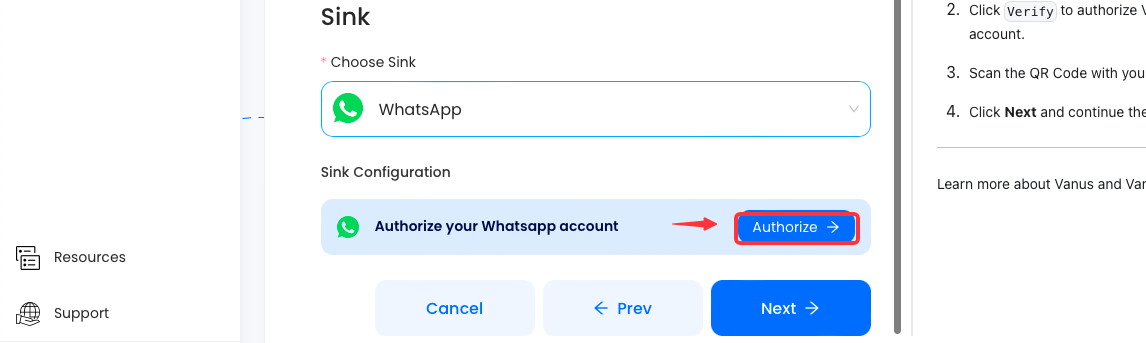
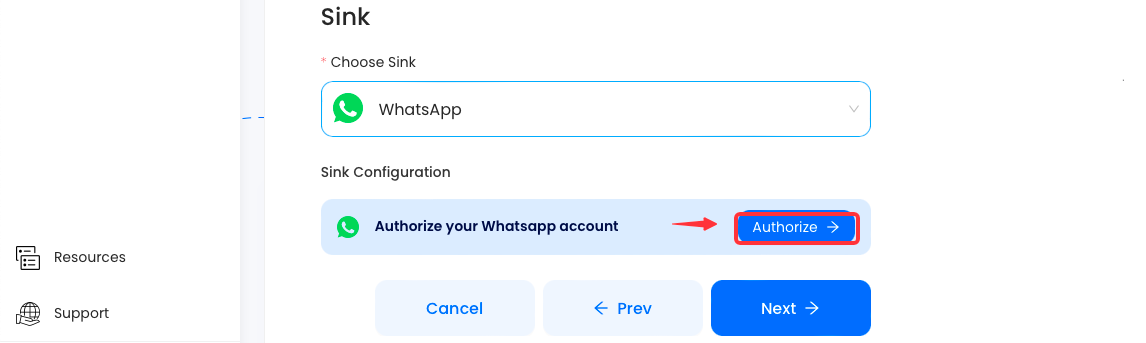
Docs: Update WhatsApp Source & Sink Connectors Images

diff --git a/content/cloud-docs/source/whatsapp/setup.md b/content/cloud-docs/source/whatsapp/setup.md
@@ -16,7 +16,7 @@ hide_title: true
 1. Write a name for your connection in Vanus Connect.
 ![](images/name.png)
 2. Click `Authorize` to authorize Vanus to establish a connection with your WhatsApp account.
-![](images/img_1.png)
+![](images/img_4.png)
 3. Scan the QR Code with your mobile WhatsApp.
   ![](images/img_2.png)
 4. Utilizing the "Click Toggle On" Function for a ChatGPT connection only. When creating non related ChatGPT connection toggle it off.
